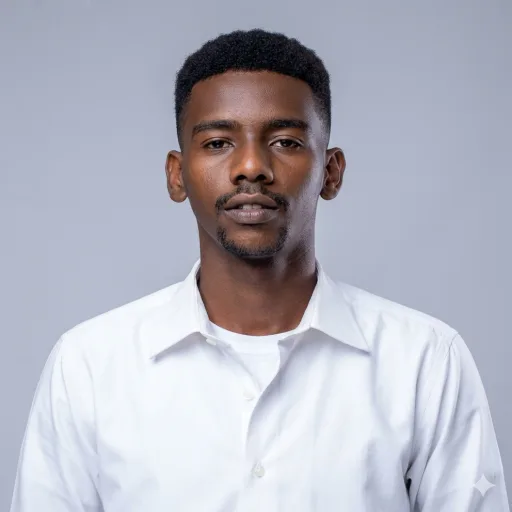
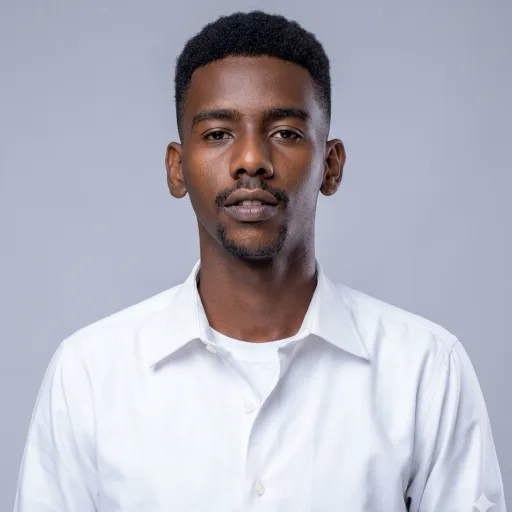
fixed effects

diff --git a/src/data/teamMembers.ts b/src/data/teamMembers.ts
@@ -25,7 +25,7 @@ export const companyMembers: CompanyMember[] = [
       "Yassin combines hands-on technical expertise in Flutter with executive leadership. As CEO, he defines Samalync's strategic direction, oversees operations, and leads business growth while ensuring delivery excellence across projects. Technical expertise: Mobile and cross-platform development (Flutter). Leadership strengths: Strategic planning, project oversight, company leadership, and stakeholder management.",
     summaryAr:
       "يجمع ياسين بين الخبرة التقنية العملية في Flutter  والقيادة التنفيذية. بصفته الرئيس التنفيذي، يحدد التوجه الاستراتيجي لسامالينك، ويشرف على العمليات، ويقود نمو الأعمال مع ضمان جودة التنفيذ في المشاريع. خبرته التقنية تشمل تطوير تطبيقات الموبايل ومتعددة المنصات، وتشمل نقاط قوته التخطيط الاستراتيجي وإدارة المشاريع وقيادة الشركة والتعامل مع أصحاب المصلحة.",
-    avatar: "/avatars/me.webp",
+    avatar: "/avatars/me.webp?v=20260729",
     group: "team",
     linkedin: "https://www.linkedin.com/in/yassin-arki-a91938254/",
   },
@@ -39,7 +39,7 @@ export const companyMembers: CompanyMember[] = [
       "Mohamed is a senior full-stack engineering contributor with strong experience in React, React Native, Node.js, TypeScript, and PostgreSQL. He has contributed to scalable web and mobile solutions, supporting RESTful API design, microservices architecture, database optimization, and cloud infrastructure including AWS, Vercel, and Docker. Mohamed brings clarity and structure to complex technical requirements through clean, maintainable code.",
     summaryAr:
       "محمد مهندس برمجيات متكامل أول يتمتع بخبرة قوية في React وReact Native وNode.js وTypeScript وPostgreSQL. ساهم في حلول ويب وموبايل قابلة للتوسع، ودعم تصميم واجهات REST وبنى الخدمات المصغرة وتحسين قواعد البيانات والبنية السحابية مثل AWS وVercel وDocker. يقدم محمد وضوحا وتنظيما للمتطلبات التقنية المعقدة عبر كود نظيف وقابل للصيانة.",
-    avatar: "/avatars/mohamed-babiker.webp",
+    avatar: "/avatars/mohamed-babiker.webp?v=20260729",
     group: "team",
     linkedin: "https://www.linkedin.com/in/mohamed-sufyan-x/",
   },
@@ -53,7 +53,7 @@ export const companyMembers: CompanyMember[] = [
       "Mougahed is a senior DevOps engineer focused on reliable delivery pipelines, cloud infrastructure, automation, and scalable production operations.",
     summaryAr:
       "مجاهد مهندس DevOps أول يركز على موثوقية مسارات التسليم والبنية التحتية السحابية والأتمتة وعمليات الإنتاج القابلة للتوسع.",
-    avatar: "/mogahed.png",
+    avatar: "/mogahed.png?v=20260729",
     group: "team",
     linkedin:
       "https://www.linkedin.com/in/mougahed-m-017b661b3?utm_source=share_via&utm_content=profile&utm_medium=member_ios",
@@ -68,7 +68,7 @@ export const companyMembers: CompanyMember[] = [
       "Ibrahim is a Flutter mobile developer focused on building polished, responsive cross-platform mobile applications with Dart and Flutter. He contributes to product interfaces and mobile experiences that are reliable, smooth, and user-friendly.",
     summaryAr:
       "ابراهيم مطور تطبيقات موبايل Flutter يركز على بناء تطبيقات موبايل متعددة المنصات ومتجاوبة باستخدام Dart وFlutter. يساهم في واجهات المنتجات وتجارب الموبايل لتكون موثوقة وسلسة وسهلة الاستخدام.",
-    avatar: "/avatars/ibrahim.webp",
+    avatar: "/avatars/ibrahim.webp?v=20260729",
     group: "team",
     linkedin: "https://www.linkedin.com/in/ibrahim-abubaker-4055112a1/",
   },
@@ -82,7 +82,7 @@ export const companyMembers: CompanyMember[] = [
       "Mustafa is a frontend development contributor focused on building responsive and user-friendly digital experiences. He is contributing to web applications using React, HTML, CSS, and JavaScript. His work emphasizes usability, performance, and clean interface design across platforms.",
     summaryAr:
       "مصطفى مساهم في تطوير الواجهات الأمامية يركز على بناء تجارب رقمية متجاوبة وسهلة الاستخدام. يساهم في تطبيقات الويب باستخدام React وHTML وCSS وJavaScript، ويركز عمله على سهولة الاستخدام والأداء وتصميم الواجهات النظيف عبر المنصات.",
-    avatar: "/avatars/mustafa.webp",
+    avatar: "/avatars/mustafa.webp?v=20260729",
     group: "team",
     linkedin: "https://www.linkedin.com/in/mustafa-kh-hassan-b26ab5370/",
   },
@@ -96,7 +96,7 @@ export const companyMembers: CompanyMember[] = [
       "Nancy is a backend and AI/ML engineering contributor with experience in Flask, Node.js, Python, TypeScript, JavaScript, and database systems. She has contributed to backend APIs and data-driven components, supporting machine learning integration and scalable backend architectures within project-based collaborations.",
     summaryAr:
       "نانسي مساهمة في هندسة الأنظمة الخلفية والذكاء الاصطناعي وتعلم الآلة، ولديها خبرة في Flask وNode.js وPython وTypeScript وJavaScript وأنظمة قواعد البيانات. ساهمت في واجهات الأنظمة الخلفية والمكونات المعتمدة على البيانات، ودعمت دمج تعلم الآلة وبنى خلفية قابلة للتوسع ضمن تعاونات قائمة على المشاريع.",
-    avatar: "/avatars/nancy-kwizera-teta.webp",
+    avatar: "/avatars/nancy-kwizera-teta.webp?v=20260729",
     group: "team",
     linkedin: "https://www.linkedin.com/in/nancy-teta-kwizera-43a49432b/",
   },
@@ -110,7 +110,7 @@ export const companyMembers: CompanyMember[] = [
       "Ghufran is a talented graphic designer who specializes in creating visually compelling designs for branding, marketing materials, and digital experiences. With a keen eye for aesthetics and a passion for visual storytelling, Ghufran brings creativity and precision to every project, ensuring that our visual communications effectively represent the Samalync brand and engage our audience.",
     summaryAr:
       "غفران مصممة جرافيك موهوبة متخصصة في إنشاء تصاميم بصرية جذابة للهوية والمواد التسويقية والتجارب الرقمية. تمتلك ذوقا بصريا عاليا وشغفا بالسرد البصري، وتضيف الإبداع والدقة إلى كل مشروع لضمان أن تعبر اتصالاتنا البصرية عن علامة سامالينك بفاعلية وتجذب جمهورنا.",
-    avatar: "/avatars/ghufran.webp",
+    avatar: "/avatars/ghufran.webp?v=20260729",
     group: "team",
     linkedin: "",
     behance: "",
@@ -125,7 +125,7 @@ export const companyMembers: CompanyMember[] = [
       "Ahmed is a UI/UX and Flutter development trainee contributing to user research, interface design, prototyping, and cross-platform product experiences that feel intuitive and polished.",
     summaryAr:
       "أحمد متدرب في تصميم UI/UX وتطوير Flutter، يساهم في أبحاث المستخدم وتصميم الواجهات والنمذجة وتجارب المنتجات متعددة المنصات لتكون بديهية ومتقنة.",
-    avatar: "/avatars/ahmed-hakeem.webp",
+    avatar: "/avatars/ahmed-hakeem.webp?v=20260729",
     group: "trainee",
     linkedin: "https://www.linkedin.com/in/ahmed-abdelhakim-mohamed-2b71073a2/",
     behance: "https://www.behance.net/ahmedhakeem18/",
@@ -140,8 +140,36 @@ export const companyMembers: CompanyMember[] = [
       "Muhammed is a Flutter development trainee supporting cross-platform mobile experiences with Dart and Flutter, helping turn ideas into smooth, responsive app interfaces.",
     summaryAr:
       "محمد متدرب في تطوير Flutter يدعم تجارب الموبايل متعددة المنصات باستخدام Dart وFlutter، ويساعد على تحويل الأفكار إلى واجهات تطبيقات سلسة ومتجاوبة.",
-    avatar: "/avatars/md-mustafa.webp",
+    avatar: "/avatars/md-mustafa.webp?v=20260729",
     group: "trainee",
+  },
+  {
+    name: "Mustafa Khamees",
+    nameAr: "مصطفى خميس",
+    role: "Flutter Development Trainee",
+    roleAr: "متدرب تطوير Flutter",
+    isCoFounder: false,
+    summary:
+      "Mustafa is a Flutter development trainee building cross-platform mobile skills with Dart and Flutter, contributing to responsive app interfaces and polished user experiences.",
+    summaryAr:
+      "مصطفى متدرب في تطوير Flutter يطوّر مهاراته في تطبيقات الموبايل متعددة المنصات باستخدام Dart وFlutter، ويساهم في واجهات متجاوبة وتجارب مستخدم مصقولة.",
+    avatar: "/avatars/mustafa.webp?v=20260729",
+    group: "trainee",
+    linkedin: "https://www.linkedin.com/in/mustafa-kh-hassan-b26ab5370/",
+  },
+  {
+    name: "Nancy Kwizera Teta",
+    nameAr: "نانسي كويزيرا تيتا",
+    role: "Flutter Development Trainee",
+    roleAr: "متدربة تطوير Flutter",
+    isCoFounder: false,
+    summary:
+      "Nancy is a Flutter development trainee building cross-platform mobile skills with Dart and Flutter, contributing to responsive app interfaces and polished user experiences.",
+    summaryAr:
+      "نانسي متدربة في تطوير Flutter تطوّر مهاراتها في تطبيقات الموبايل متعددة المنصات باستخدام Dart وFlutter، وتساهم في واجهات متجاوبة وتجارب مستخدم مصقولة.",
+    avatar: "/avatars/nancy-kwizera-teta.webp?v=20260729",
+    group: "trainee",
+    linkedin: "https://www.linkedin.com/in/nancy-teta-kwizera-43a49432b/",
   },
   {
     name: "Nawaf Abubakr",
@@ -153,7 +181,7 @@ export const companyMembers: CompanyMember[] = [
       "Nawaf is a Flutter development trainee building cross-platform mobile skills with Dart and Flutter, contributing to responsive app interfaces and polished user experiences.",
     summaryAr:
       "نواف متدرب في تطوير Flutter يطوّر مهاراته في تطبيقات الموبايل متعددة المنصات باستخدام Dart وFlutter، ويساهم في واجهات متجاوبة وتجارب مستخدم مصقولة.",
-    avatar: "/avatars/nawaf.webp",
+    avatar: "/avatars/nawaf.webp?v=20260729",
     group: "trainee",
   },
   {
@@ -166,7 +194,7 @@ export const companyMembers: CompanyMember[] = [
       "Hozaifa is a Flutter development trainee building practical mobile development skills with Dart and Flutter while contributing to responsive, user-friendly app interfaces.",
     summaryAr:
       "حذيفة متدرب في تطوير Flutter يطوّر مهارات عملية في تطوير تطبيقات الموبايل باستخدام Dart وFlutter، ويساهم في بناء واجهات تطبيقات متجاوبة وسهلة الاستخدام.",
-    avatar: "/avatars/hozaifa.webp",
+    avatar: "/avatars/hozaifa.webp?v=20260729",
     group: "trainee",
   },
   {
@@ -179,7 +207,7 @@ export const companyMembers: CompanyMember[] = [
       "Mazin is a Flutter development trainee focused on learning cross-platform mobile development and helping create polished, reliable app experiences.",
     summaryAr:
       "مازن متدرب في تطوير Flutter يركز على تعلم تطوير تطبيقات الموبايل متعددة المنصات والمساهمة في إنشاء تجارب تطبيقات متقنة وموثوقة.",
-    avatar: "/avatars/mazin.webp",
+    avatar: "/avatars/mazin.webp?v=20260729",
     group: "trainee",
   },
   {
@@ -192,7 +220,7 @@ export const companyMembers: CompanyMember[] = [
       "Amro is a Flutter development trainee developing mobile app skills with Dart and Flutter through hands-on product interface work.",
     summaryAr:
       "عمرو متدرب في تطوير Flutter يطوّر مهارات تطبيقات الموبايل باستخدام Dart وFlutter عبر العمل العملي على واجهات المنتجات.",
-    avatar: "/avatars/amro.webp",
+    avatar: "/avatars/amro.webp?v=20260729",
     group: "trainee",
   },
   {
@@ -205,7 +233,7 @@ export const companyMembers: CompanyMember[] = [
       "Ibrahim is a Flutter development trainee developing mobile app skills with Dart and Flutter through hands-on product interface work.",
     summaryAr:
       "ابراهيم متدرب في تطوير Flutter يطوّر مهارات تطبيقات الموبايل باستخدام Dart وFlutter عبر العمل العملي على واجهات المنتجات.",
-    avatar: "/avatars/ibrahim.webp",
+    avatar: "/avatars/ibrahim.webp?v=20260729",
     group: "trainee",
   },
     {
@@ -218,10 +246,10 @@ export const companyMembers: CompanyMember[] = [
       "Mustafa is a Flutter development trainee developing mobile app skills with Dart and Flutter through hands-on product interface work.",
     summaryAr:
       "ابراهيم متدرب في تطوير Flutter يطوّر مهارات تطبيقات الموبايل باستخدام Dart وFlutter عبر العمل العملي على واجهات المنتجات.",
-    avatar: "/avatars/mustafa-hashim.webp",
+    avatar: "/avatars/mustafa-hashim.webp?v=20260729",
     group: "trainee",
   },
-   {
+  {
     name: "Mohammed Salah",
     nameAr: "محمد صلاح",
     role: "Flutter Development Trainee",
@@ -231,7 +259,20 @@ export const companyMembers: CompanyMember[] = [
       "Mohammed is a Flutter development trainee developing mobile app skills with Dart and Flutter through hands-on product interface work.",
     summaryAr:
       "محمد متدرب في تطوير Flutter يطوّر مهارات تطبيقات الموبايل باستخدام Dart وFlutter عبر العمل العملي على واجهات المنتجات.",
-    avatar: "/avatars/mohammed-salah.webp",
+    avatar: "/avatars/mohammed-salah.webp?v=20260729",
+    group: "trainee",
+  },
+  {
+    name: "Kamal Bakri",
+    nameAr: "كمال بكري",
+    role: "Flutter Development Trainee",
+    roleAr: "متدرب تطوير Flutter",
+    isCoFounder: false,
+    summary:
+      "Kamal is a Flutter development trainee building practical mobile development skills with Dart and Flutter while contributing to responsive, user-friendly app interfaces.",
+    summaryAr:
+      "كمال متدرب في تطوير Flutter يطوّر مهارات عملية في تطوير تطبيقات الموبايل باستخدام Dart وFlutter، ويساهم في بناء واجهات تطبيقات متجاوبة وسهلة الاستخدام.",
+    avatar: "/avatars/kamal.webp?v=20260729",
     group: "trainee",
   },
 ];

diff --git a/src/pages/Team.tsx b/src/pages/Team.tsx
@@ -64,7 +64,7 @@ const Team: React.FC = () => {
               <div className="flex flex-col items-center space-y-6 p-10 text-center">
                 {selectedMember.avatar.startsWith("/") ? (
                   <div
-                    className="relative group cursor-pointer"
+                    className="group relative mb-2 h-48 w-48 shrink-0 cursor-pointer overflow-hidden rounded-full border-4 border-blue-400 shadow-2xl"
                     onClick={() => setEnlargedPhoto(selectedMember.avatar)}
                   >
                     <img
@@ -72,7 +72,7 @@ const Team: React.FC = () => {
                       alt={getMemberName(selectedMember, language)}
                       width={192}
                       height={192}
-                      className="mb-2 h-48 w-48 rounded-full border-4 border-blue-400 object-cover shadow-2xl transition-transform duration-300 group-hover:scale-105"
+                      className="block h-full w-full object-cover transition-transform duration-300 group-hover:scale-105"
                     />
                     <div className="absolute inset-0 flex items-center justify-center rounded-full bg-gradient-to-br from-blue-400/10 to-cyan-400/10 opacity-0 transition-opacity duration-300 group-hover:opacity-100">
                       <span className="rounded-full bg-white/90 px-3 py-1 text-sm font-semibold text-blue-600">
@@ -153,15 +153,17 @@ const Team: React.FC = () => {
       <div className="relative z-10 p-8 text-center space-y-6">
         <div className="relative mx-auto flex items-center justify-center">
           {member.avatar.startsWith("/") ? (
-            <img
-              src={member.avatar}
-              alt={getMemberName(member, language)}
-              width={144}
-              height={144}
-              className="h-36 w-36 rounded-full border-4 border-white object-cover shadow-md transition-transform duration-200 group-hover:scale-105"
-              loading="lazy"
-              decoding="async"
-            />
+            <div className="h-36 w-36 shrink-0 overflow-hidden rounded-full border-4 border-white shadow-md">
+              <img
+                src={member.avatar}
+                alt={getMemberName(member, language)}
+                width={144}
+                height={144}
+                className="block h-full w-full object-cover transition-transform duration-200 group-hover:scale-105"
+                loading="lazy"
+                decoding="async"
+              />
+            </div>
           ) : (
             <div className="flex h-36 w-36 items-center justify-center rounded-full bg-gradient-to-br from-blue-500 to-cyan-600 text-3xl font-bold text-white shadow-md transition-transform duration-200 group-hover:scale-105">
               {member.avatar}

diff --git a/src/components/About.tsx b/src/components/About.tsx
@@ -63,15 +63,17 @@ const TeamMemberCard = memo(({ member, onSelect, badgeLabel, language }: TeamMem
       <CardContent className="relative z-10 p-8 text-center">
         <div className="relative mx-auto mb-6 flex items-center justify-center">
           {member.avatar.startsWith("/") ? (
-            <img
-              src={member.avatar}
-              alt={memberName}
-              width={128}
-              height={128}
-              className="h-32 w-32 rounded-full border-4 border-white object-cover shadow-md transition-transform duration-300 group-hover:scale-[1.03]"
-              loading="lazy"
-              decoding="async"
-            />
+            <div className="h-32 w-32 shrink-0 overflow-hidden rounded-full border-4 border-white shadow-md">
+              <img
+                src={member.avatar}
+                alt={memberName}
+                width={128}
+                height={128}
+                className="block h-full w-full object-cover transition-transform duration-300 group-hover:scale-[1.03]"
+                loading="lazy"
+                decoding="async"
+              />
+            </div>
           ) : (
             <div className="flex h-32 w-32 items-center justify-center rounded-full bg-gradient-to-br from-cyan-500 to-blue-600 text-3xl font-bold text-white shadow-md">
               {member.avatar}
@@ -195,14 +197,16 @@ const About = memo(() => {
               </button>
               <div className="flex flex-col items-center space-y-6 p-10 text-center">
                 {selectedMember.avatar.startsWith("/") ? (
-                  <img
-                    src={selectedMember.avatar}
-                    alt={getMemberName(selectedMember, language)}
-                    width={192}
-                    height={192}
-                    className="mb-2 h-48 w-48 rounded-full border-4 border-blue-100 object-cover shadow-md"
-                    decoding="async"
-                  />
+                  <div className="mb-2 h-48 w-48 shrink-0 overflow-hidden rounded-full border-4 border-blue-100 shadow-md">
+                    <img
+                      src={selectedMember.avatar}
+                      alt={getMemberName(selectedMember, language)}
+                      width={192}
+                      height={192}
+                      className="block h-full w-full object-cover"
+                      decoding="async"
+                    />
+                  </div>
                 ) : (
                   <div className="mb-2 flex h-48 w-48 items-center justify-center rounded-full bg-gradient-to-br from-blue-500 to-cyan-600 text-5xl font-extrabold text-white shadow-md">
                     {selectedMember.avatar}

diff --git a/src/components/Footer.tsx b/src/components/Footer.tsx
@@ -40,19 +40,12 @@ const Footer: React.FC = memo(() => {
       role: footer.role,
       isCoFounder: false,
       linkedin: "https://www.linkedin.com/in/yassin-arki-a91938254/",
-      image: "/avatars/me.webp"
+      image: "/avatars/me.webp?v=20260729"
     },
   ];
 
   return (
     <footer className="performance-section bg-gradient-to-br from-gray-900 via-blue-900 to-cyan-900 text-white relative overflow-hidden">
-      {/* Background decorative elements */}
-      <div className="absolute inset-0 overflow-hidden pointer-events-none">
-        <div className="absolute top-20 left-20 hidden h-96 w-96 rounded-full bg-blue-500/10 lg:block"></div>
-        <div className="absolute bottom-20 right-20 hidden h-80 w-80 rounded-full bg-cyan-500/10 md:block"></div>
-        <div className="absolute left-1/2 top-1/2 hidden h-64 w-64 -translate-x-1/2 -translate-y-1/2 rounded-full bg-cyan-500/10 xl:block"></div>
-      </div>
-
       <div className="container mx-auto px-4 sm:px-6 lg:px-8 relative z-10">
         {/* Main Footer Content */}
         <div className="py-20 grid md:grid-cols-2 lg:grid-cols-5 gap-12">
@@ -143,7 +136,7 @@ const Footer: React.FC = memo(() => {
                       alt={member.name}
                       width={80}
                       height={80}
-                      className="w-20 h-20 rounded-full object-cover border-2 border-blue-400 mb-2 shadow-lg"
+                      className="aspect-square h-20 w-20 shrink-0 rounded-full object-cover border-2 border-blue-400 mb-2 shadow-lg"
                       loading="lazy"
                       decoding="async"
                     />

diff --git a/src/pages/Index.tsx b/src/pages/Index.tsx
@@ -34,8 +34,6 @@ const Index = () => {
       <section id="hero" className="relative flex flex-col items-center justify-center min-h-screen pt-24 pb-8 text-center overflow-hidden bg-blue-900">
         {/* Animated Background Elements */}
         <div className="absolute inset-0 overflow-hidden pointer-events-none" aria-hidden="true">
-          <div className="absolute inset-0 bg-[radial-gradient(circle_at_15%_20%,rgba(96,165,250,0.18),transparent_28%),radial-gradient(circle_at_82%_18%,rgba(34,211,238,0.12),transparent_24%),linear-gradient(135deg,#0f172a_0%,#1d4ed8_45%,#0f4c81_100%)]" />
-
           <div className="absolute top-24 left-[10%] h-2 w-2 rounded-full bg-white/30 md:animate-particle-drift" />
           <div className="absolute right-[16%] top-40 hidden h-3 w-3 rounded-full bg-white/20 md:block md:animate-particle-drift-delayed" />
           <div className="absolute bottom-28 left-[28%] hidden h-1.5 w-1.5 rounded-full bg-white/25 lg:block lg:animate-particle-drift" />
